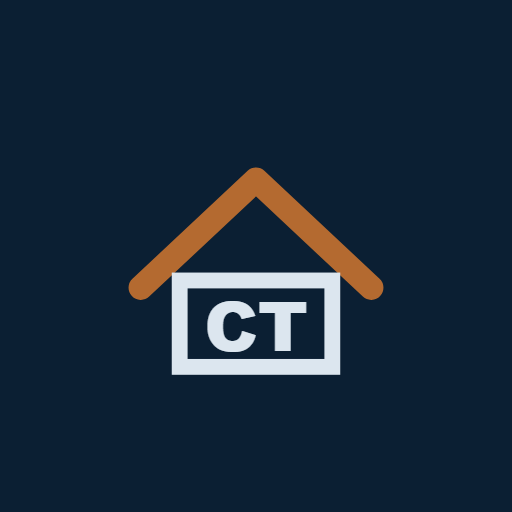
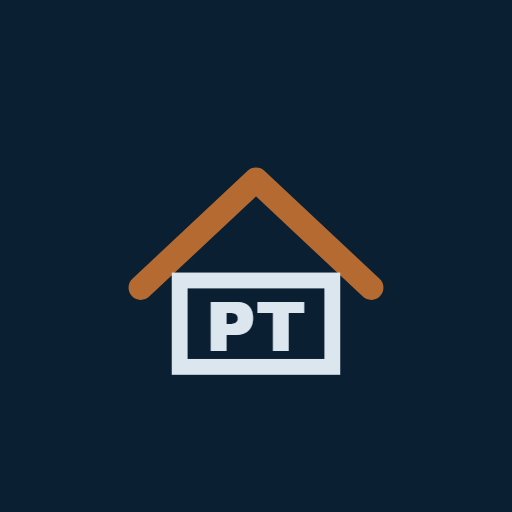
Nombre visible: Proyectos Tejeda

Changed region(s): [[0.4062, 0.5938, 0.5312, 0.6875], [0.5312, 0.625, 0.5938, 0.6875], [0.5938, 0.5938, 0.625, 0.625]]

diff --git a/index.html b/index.html
@@ -3,16 +3,16 @@
 <head>
 <meta charset="utf-8">
 <meta name="viewport" content="width=device-width,initial-scale=1,viewport-fit=cover">
-<title>Control de Obra Tejeda</title>
+<title>Proyectos Tejeda</title>
 <meta name="theme-color" content="#0B1F33">
-<meta name="description" content="Control de obra de Constructora Tejeda">
+<meta name="description" content="Proyectos de Constructora Tejeda">
 <link rel="manifest" href="manifest.webmanifest">
 <link rel="icon" href="icono-192.png" type="image/png">
 <link rel="apple-touch-icon" href="icono-180.png">
 <meta name="apple-mobile-web-app-capable" content="yes">
 <meta name="mobile-web-app-capable" content="yes">
 <meta name="apple-mobile-web-app-status-bar-style" content="black-translucent">
-<meta name="apple-mobile-web-app-title" content="Control Obra">
+<meta name="apple-mobile-web-app-title" content="Proyectos">
 <style>
   html,body{margin:0;height:100%;background:#0B1F33;overflow:hidden}
   #marco{position:fixed;left:0;right:0;top:env(safe-area-inset-top,0px);bottom:0;width:100%;height:calc(100% - env(safe-area-inset-top,0px));border:0;background:#f3f4f6}
@@ -23,7 +23,7 @@
 </style>
 </head>
 <body class="con-ayuda">
-<iframe id="marco" title="Control de Obra Tejeda" allow="camera; microphone; geolocation; clipboard-write"
+<iframe id="marco" title="Proyectos Tejeda" allow="camera; microphone; geolocation; clipboard-write"
   src="https://script.google.com/macros/s/AKfycbyc1wCIKRldG1n6AH2xw5_RXlz5UYs2AvgSD9J35VJm1LVrnKOXceQKM8gDShX05Ps/exec?enmarco=1"></iframe>
 <div id="ayuda">¿No aparece tu cuenta? <a id="directo" target="_blank" rel="noopener"
   href="https://script.google.com/macros/s/AKfycbyc1wCIKRldG1n6AH2xw5_RXlz5UYs2AvgSD9J35VJm1LVrnKOXceQKM8gDShX05Ps/exec">Abrir directo</a></div>

diff --git a/404.html b/404.html
@@ -1,1 +1,1 @@
-<!doctype html><meta charset="utf-8"><meta http-equiv="refresh" content="0;url=/"><title>Control de Obra Tejeda</title><a href="/">Control de Obra Tejeda</a>
+<!doctype html><meta charset="utf-8"><meta http-equiv="refresh" content="0;url=/"><title>Proyectos Tejeda</title><a href="/">Control de Obra Tejeda</a>

diff --git a/README.md b/README.md
@@ -1,3 +1,3 @@
-# Control de Obra Tejeda
+# Proyectos Tejeda
 
 Portada instalable (sin datos ni secretos) que abre la app de control de obra de Google Apps Script en pantalla completa.
